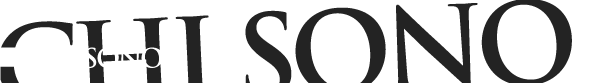
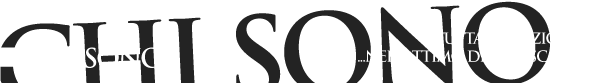
V1.1.0

diff --git a/common/theme/css/no_ie_stylesheet.css b/common/theme/css/no_ie_stylesheet.css
@@ -220,8 +220,8 @@ a{
 		color:							#C00;
 }
 .number_left{
-	margin: 0 -4px -29px -17px;
+	margin: 0 -3px -41px -17px;
 }
 .number_right{
-	margin: 0 0 -29px -4px;
+	margin: 0 0 -41px -4px;
 }
